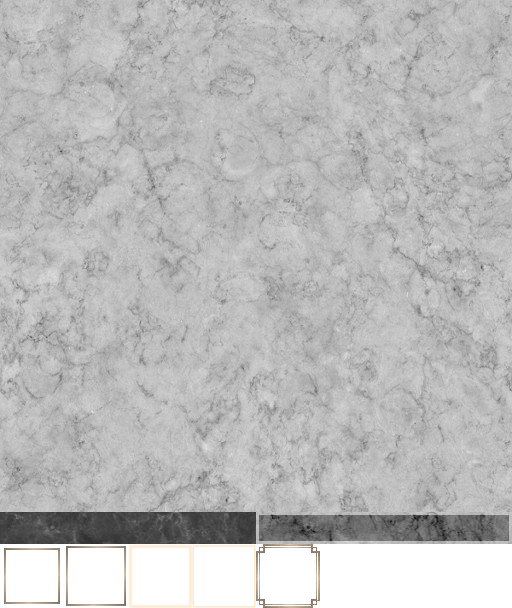
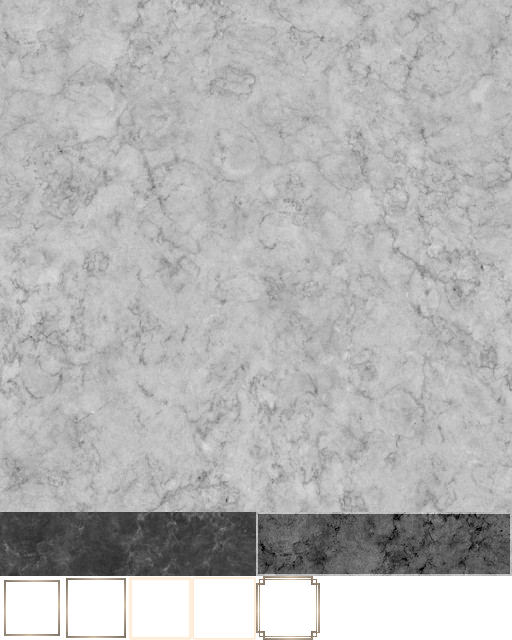
Fixed

diff --git a/themes/stone.go b/themes/stone.go
@@ -18,10 +18,10 @@ func NewStone(s grue.Surface, fontFile string, fontSize float64, sheetFile strin
 			Image:          "stone-pn",
 			TileHorizontal: true, TileVertical: true,
 		},
-		// grue.TexturedPanel{
-		// 	Image: "stone-orn3",
-		// 	Left:  6, Right: 6, Top: 6, Bottom: 6,
-		// },
+		grue.TexturedPanel{
+			Image: "stone-orn3",
+			Left:  10, Right: 10, Top: 10, Bottom: 10,
+		},
 	}}
 	btmd := grue.MultiDrawer{Drawers: []grue.ThemeDrawer{
 		grue.TexturedPanel{
@@ -33,15 +33,28 @@ func NewStone(s grue.Surface, fontFile string, fontSize float64, sheetFile strin
 			Left:  4, Right: 4, Top: 4, Bottom: 4,
 		},
 	}}
+	btmda := grue.MultiDrawer{Drawers: []grue.ThemeDrawer{
+		grue.TexturedPanel{
+			Image:          "stone-bt",
+			TileHorizontal: true, TileVertical: true,
+			Color: grue.RGB(0.7, 0.7, 0.7),
+		},
+		grue.TexturedPanel{
+			Image: "stone-orn2",
+			Left:  4, Right: 4, Top: 4, Bottom: 4,
+			Color: grue.RGB(0.7, 0.7, 0.7),
+		},
+	}}
 	lemd := grue.MultiDrawer{Drawers: []grue.ThemeDrawer{
 		grue.TexturedPanel{
 			Image:          "stone-le",
 			TileHorizontal: true, TileVertical: true,
+			Left: 6, Right: 6, Top: 6, Bottom: 6,
 		},
-		// grue.TexturedPanel{
-		// 	Image: "stone-orn1",
-		// 	Left:  6, Right: 6, Top: 6, Bottom: 6,
-		// },
+		grue.TexturedPanel{
+			Image: "stone-orn2",
+			Left:  6, Right: 6, Top: 6, Bottom: 6,
+		},
 	}}
 
 	theme := grue.Theme{
@@ -54,11 +67,12 @@ func NewStone(s grue.Surface, fontFile string, fontSize float64, sheetFile strin
 		PlaceholderColor:  grue.RGB(0.7, 0.7, 0.7),
 		TooltipColor:      grue.RGB(0, 0, 0),
 		Pad:               8,
-		PressDisplace:     grue.V(1, -1),
+		//		PressDisplace:     grue.V(1, -1),
 		Drawers: map[grue.ThemeDrawerKey]grue.ThemeDrawer{
-			grue.ThemePanel:    pnmd,
-			grue.ThemeButton:   btmd,
-			grue.ThemeLineEdit: lemd,
+			grue.ThemePanel:        pnmd,
+			grue.ThemeButton:       btmd,
+			grue.ThemeButtonActive: btmda,
+			grue.ThemeLineEdit:     lemd,
 			grue.ThemeTooltip: grue.PlainRect{
 				BackColor:   grue.RGB(1, 0.95, 0.8),
 				BorderColor: grue.RGB(0, 0, 0),

diff --git a/panel.go b/panel.go
@@ -18,7 +18,7 @@ type Base struct {
 	PlaceholderText string
 }
 
-// Panel is simple widget with background color and border.
+// Panel is a simple widget with background color and border.
 // It can contain text and/or image.
 type Panel struct {
 	Parent   Widget
